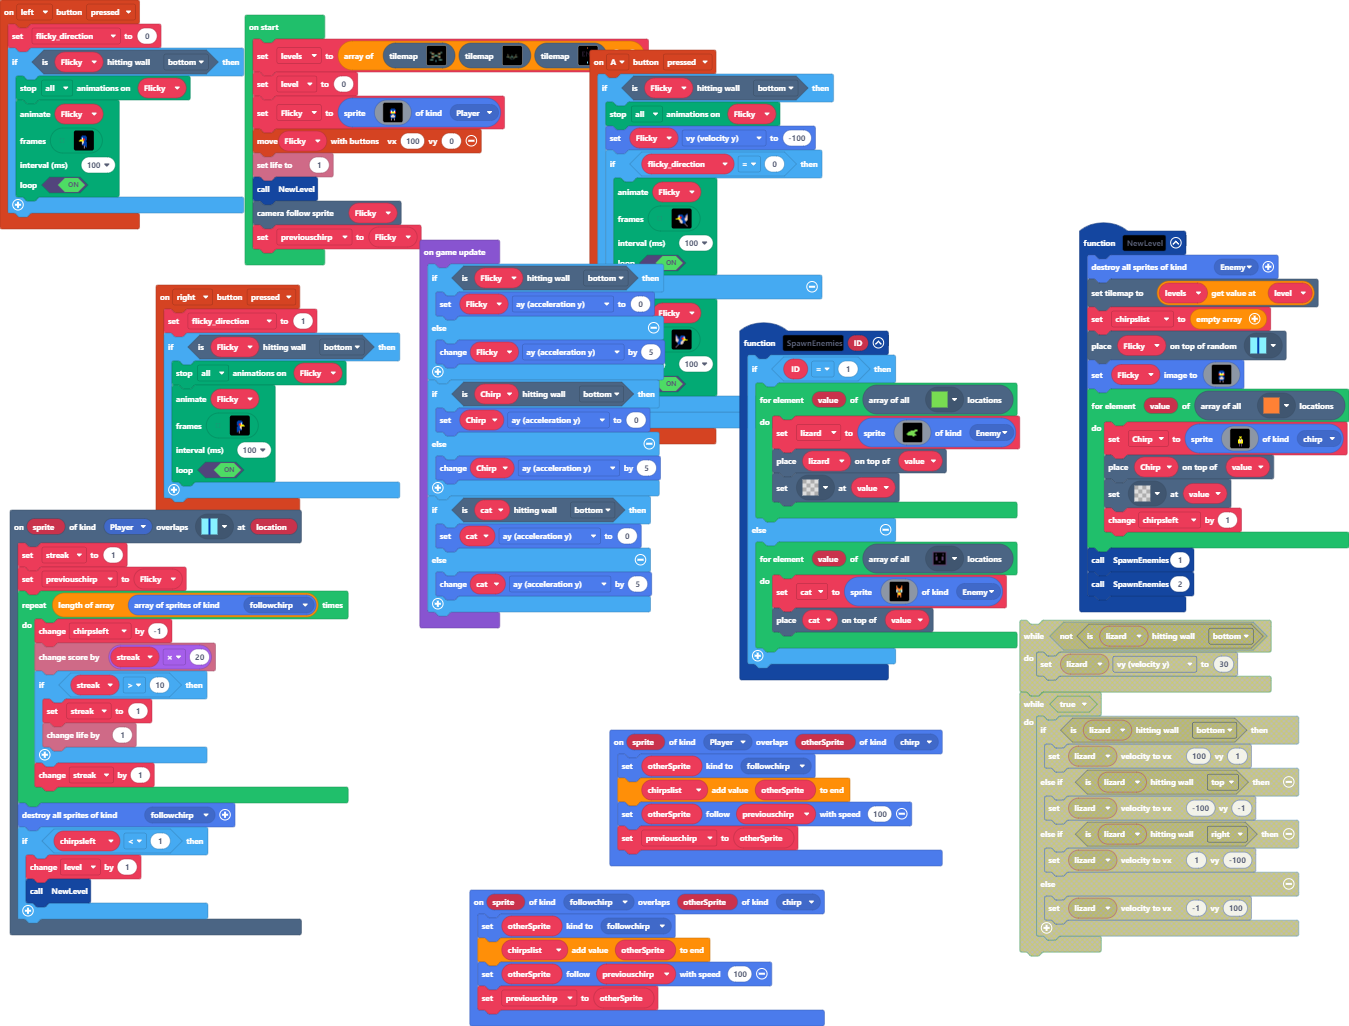
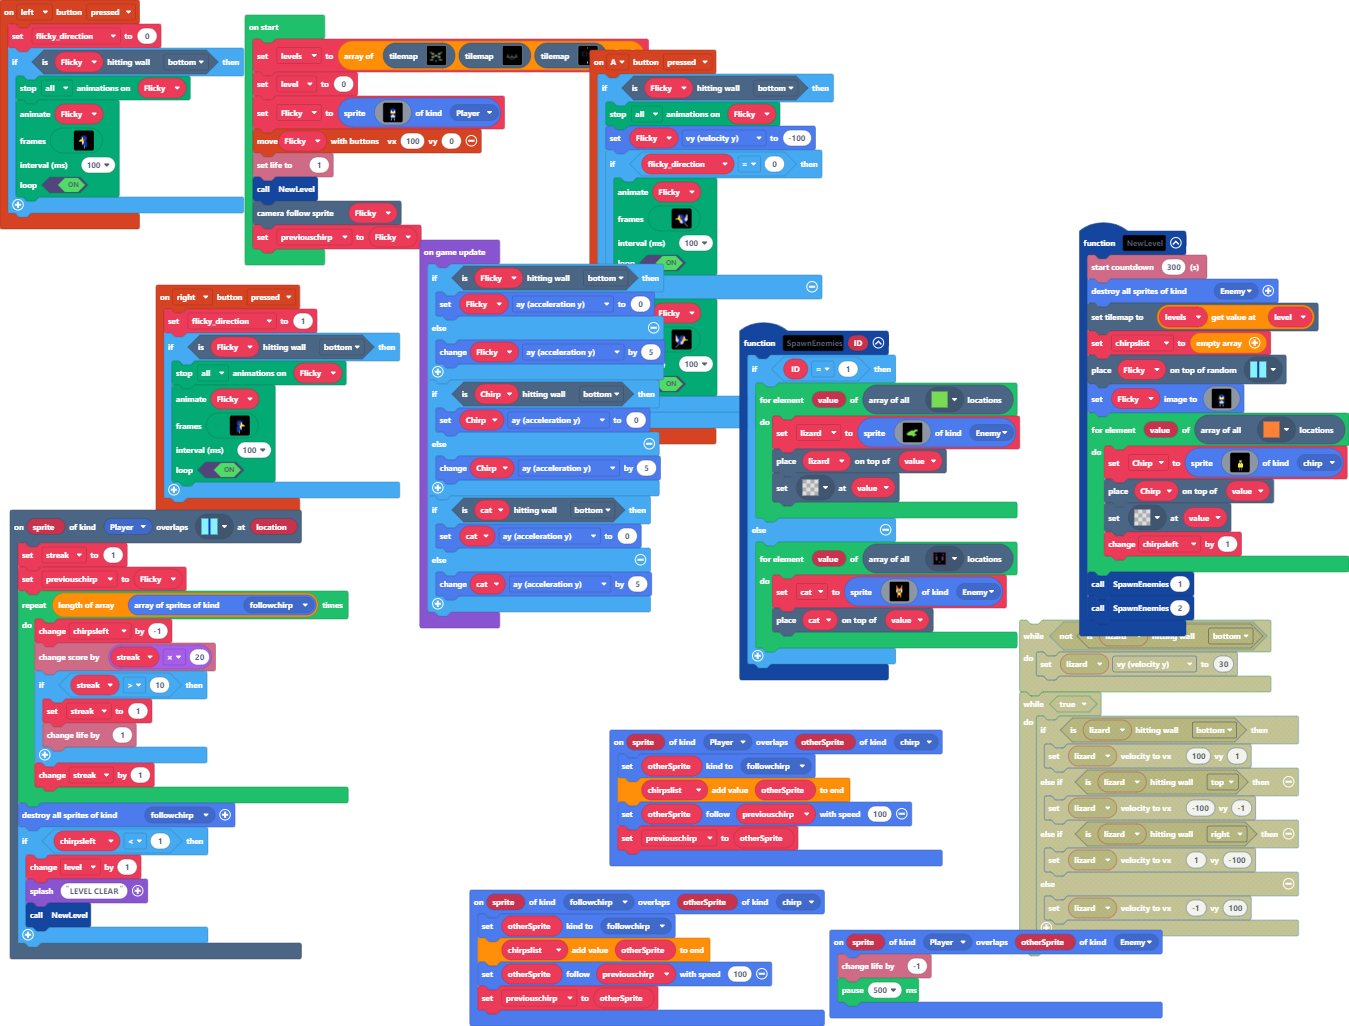
Update pxt.json, main.blocks, main.ts, tilemap.g.jres, tilemap.g.ts

Changed region(s): [[0.7784, 0.2495, 1.0, 0.6238], [0.5915, 0.9045, 0.8718, 0.9981], [0.0, 0.8421, 0.2491, 0.9357]]

diff --git a/tilemap.g.ts b/tilemap.g.ts
@@ -175,6 +175,25 @@ namespace myTiles {
 . . . . . . . . . . . . . . . . 
 . . . . . . . . . . . . . . . . 
 `, [myTiles.transparency16], TileScale.Sixteen);
+            case "level9":
+            case "level9":return tiles.createTilemap(hex`1000100000000000000000000000000000000000000000000000000000000000000000000000000000000000000000000000000000000000000000000000000000000000000000000000000000000000000000000000000000000000000000000000000000000000000000000000000000000000000000000000000000000000000000000000000000000000000000000000000000000000000000000000000000000000000000000000000000000000000000000000000000000000000000000000000000000000000000000000000000000000000000000000000000000000000000000000000000000000000000000000000000000000000000000000000000000000`, img`
+. . . . . . . . . . . . . . . . 
+. . . . . . . . . . . . . . . . 
+. . . . . . . . . . . . . . . . 
+. . . . . . . . . . . . . . . . 
+. . . . . . . . . . . . . . . . 
+. . . . . . . . . . . . . . . . 
+. . . . . . . . . . . . . . . . 
+. . . . . . . . . . . . . . . . 
+. . . . . . . . . . . . . . . . 
+. . . . . . . . . . . . . . . . 
+. . . . . . . . . . . . . . . . 
+. . . . . . . . . . . . . . . . 
+. . . . . . . . . . . . . . . . 
+. . . . . . . . . . . . . . . . 
+. . . . . . . . . . . . . . . . 
+. . . . . . . . . . . . . . . . 
+`, [myTiles.transparency16], TileScale.Sixteen);
         }
         return null;
     })

diff --git a/main.ts b/main.ts
@@ -17,6 +17,7 @@ scene.onOverlapTile(SpriteKind.Player, assets.tile`doorsmiddle`, function (sprit
     sprites.destroyAllSpritesOfKind(SpriteKind.followchirp)
     if (chirpsleft < 1) {
         level += 1
+        game.splash("LEVEL CLEAR")
         NewLevel()
     }
 })
@@ -74,6 +75,7 @@ sprites.onOverlap(SpriteKind.Player, SpriteKind.chirp, function (sprite, otherSp
     previouschirp = otherSprite
 })
 function NewLevel () {
+    info.startCountdown(300)
     sprites.destroyAllSpritesOfKind(SpriteKind.Enemy)
     tiles.setCurrentTilemap(levels[level])
     chirpslist = []
@@ -105,6 +107,10 @@ sprites.onOverlap(SpriteKind.followchirp, SpriteKind.chirp, function (sprite, ot
     chirpslist.push(otherSprite)
     otherSprite.follow(previouschirp, 100)
     previouschirp = otherSprite
+})
+sprites.onOverlap(SpriteKind.Player, SpriteKind.Enemy, function (sprite, otherSprite) {
+    info.changeLifeBy(-1)
+    pause(500)
 })
 let Chirp: Sprite = null
 let chirpslist: Sprite[] = []
